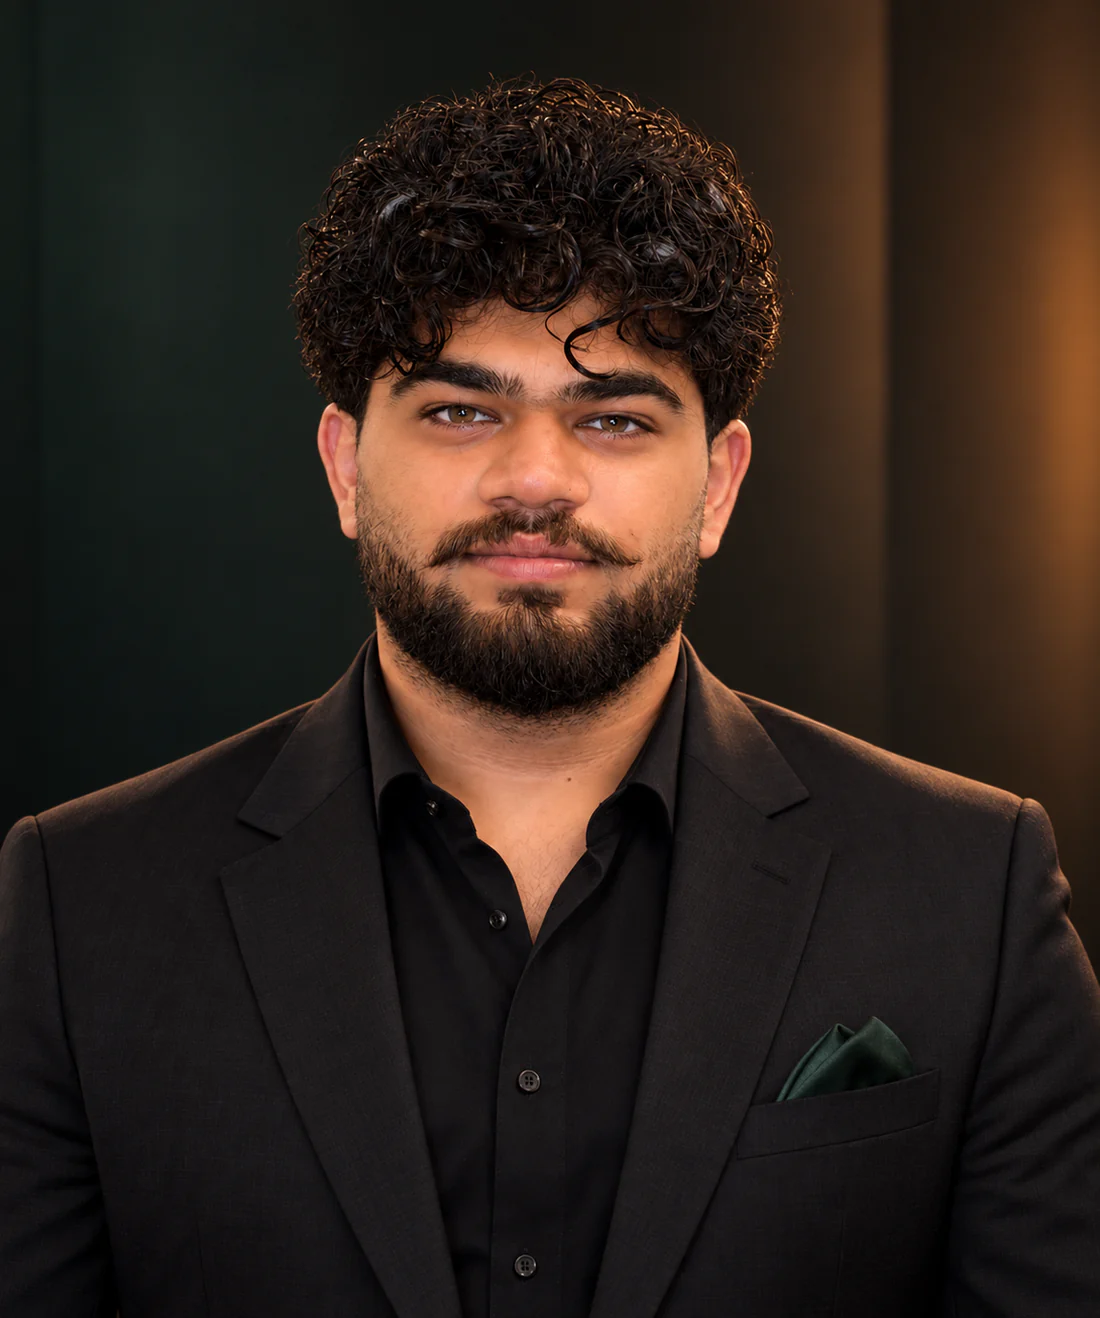
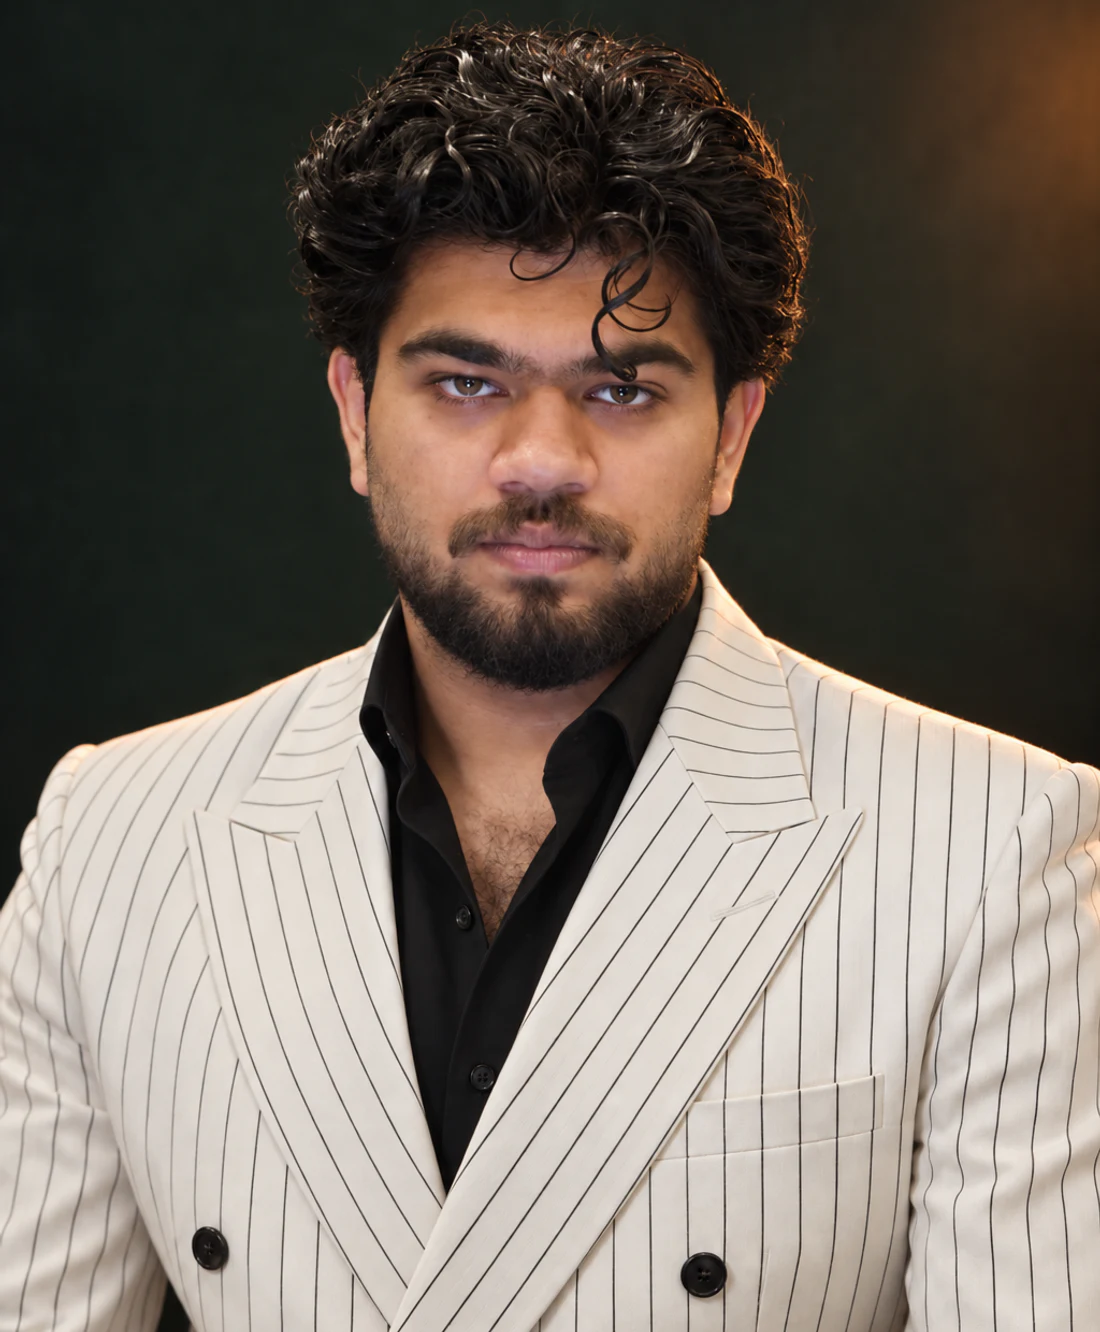
Expand leadership profiles and refine brand assets

diff --git a/src/app/page.tsx b/src/app/page.tsx
@@ -63,16 +63,24 @@ export default function HomePage() {
       <section className="leadership section-pad" id="leadership">
         <div className="shell section-heading light-heading">
           <p className="eyebrow light"><span /> Leadership</p>
-          <h2>Experience meets<br /><em>new momentum.</em></h2>
+          <h2>Stewardship today.<br /><em>Ambition for tomorrow.</em></h2>
         </div>
         <div className="shell leaders-grid">
           <article className="leader-card">
             <div className="leader-image"><Image src="/assets/leadership/sheikh-khalid-islam.webp" alt="Sheikh Khalid Islam" fill sizes="(max-width: 820px) 100vw, 50vw" /></div>
             <div className="leader-body">
-              <span className="leader-index">01 / Chairman</span>
+              <span className="leader-index">01 / Group leadership</span>
               <h3>Sheikh Khalid Islam</h3>
-              <p className="roles">Chairman, RK Group · Chairman, KK Group<br />Vice Chairman, PVMA (2024–2026)</p>
-              <p>Known for strategic vision, operational discipline and principled industry leadership, Sheikh Khalid Islam has guided growth across the edible-oils sector while representing manufacturers in constructive dialogue on food security and industrial policy.</p>
+              <ul className="role-list" aria-label="Leadership roles">
+                <li>Chief Executive Officer, RK Group of Industries</li>
+                <li>Chairman, RK Group</li>
+                <li>Chairman, KK Group</li>
+                <li>Vice Chairman, PVMA (2024-2026)</li>
+              </ul>
+              <div className="leader-profile">
+                <p>Sheikh Khalid Islam brings extensive experience in Pakistan&apos;s edible oil and banaspati ghee industry. He has led strategic growth, operating discipline and business expansion across the Group while keeping quality, resilience and long-term value at the centre of its direction.</p>
+                <p>His industry service includes previous terms as Senior Vice Chairman and Executive Committee Member of the Pakistan Vanaspati Manufacturers Association, along with participation in leadership roles within the Federation of Pakistan Chambers of Commerce and Industry. He has represented manufacturers in dialogue with government and regulatory institutions on food security, taxation, digital invoicing, freight costs and industrial policy.</p>
+              </div>
             </div>
           </article>
           <article className="leader-card">
@@ -80,8 +88,13 @@ export default function HomePage() {
             <div className="leader-body">
               <span className="leader-index">02 / Director</span>
               <h3>Sheikh Saim Khalid</h3>
-              <p className="roles">Director, RK Group · Director, KK Group</p>
-              <p>As a Director of RK Group and KK Group, Sheikh Saim Khalid represents continuity in the family enterprise and its focus on thoughtful modernization across the portfolio.</p>
+              <ul className="role-list" aria-label="Leadership roles">
+                <li>Director, RK Group</li>
+                <li>Director, KK Group</li>
+              </ul>
+              <div className="leader-profile">
+                <p>Sheikh Saim Khalid represents the next generation of the family enterprise. His perspective brings together the Group&apos;s established operating values with a clear focus on thoughtful modernization, stronger brands and disciplined growth across the portfolio.</p>
+              </div>
             </div>
           </article>
         </div>

diff --git a/src/app/globals.css b/src/app/globals.css
@@ -78,13 +78,16 @@ h1,h2,h3 { font-family: "Space Grotesk", Arial, sans-serif; font-weight: 500; le
 .leader-image { position: relative; height: 610px; }
 .leader-image img { object-fit: cover; object-position: center top; transition: transform .7s ease; }
 .leader-card:hover .leader-image img { transform: scale(1.018); }
-.leader-body { min-height: 340px; padding: 38px 42px 44px; border-top: 3px solid var(--orange); }
+.leader-body { min-height: 540px; padding: 38px 42px 44px; border-top: 3px solid var(--orange); }
 .leader-card:nth-child(2) .leader-body { border-color: #286b53; }
 .leader-index { display: block; font-size: 9px; text-transform: uppercase; letter-spacing: .18em; color: var(--orange); margin-bottom: 20px; }
 .leader-card:nth-child(2) .leader-index { color: #66a28a; }
 .leader-body h3 { font-size: clamp(30px,3vw,44px); margin: 0 0 12px; }
-.leader-body .roles { color: white; font-size: 13px; line-height: 1.65; margin-bottom: 23px; }
-.leader-body > p:last-child { color: rgba(255,255,255,.56); font-size: 14px; line-height: 1.75; max-width: 560px; }
+.role-list { display: flex; flex-wrap: wrap; gap: 8px; padding: 0; margin: 0 0 26px; list-style: none; }
+.role-list li { padding: 8px 10px; border: 1px solid rgba(255,255,255,.14); color: rgba(255,255,255,.84); font-size: 10px; line-height: 1.35; letter-spacing: .035em; }
+.leader-profile { max-width: 570px; }
+.leader-profile p { color: rgba(255,255,255,.58); font-size: 14px; line-height: 1.75; margin-bottom: 15px; }
+.leader-profile p:last-child { margin-bottom: 0; }
 
 .brands { background: var(--cream); }
 .brands-heading { display: grid; grid-template-columns: 1fr .55fr; align-items: end; }
@@ -193,7 +196,7 @@ h1,h2,h3 { font-family: "Space Grotesk", Arial, sans-serif; font-weight: 500; le
   .leaders-grid::-webkit-scrollbar { display: none; }
   .leader-card { flex: 0 0 88vw; scroll-snap-align: center; }
   .leader-image { height: 520px; }
-  .leader-body { min-height: 390px; padding: 31px 25px 36px; }
+  .leader-body { min-height: 520px; padding: 31px 25px 36px; }
   .brands-heading, .portfolio-intro { grid-template-columns: 1fr; gap: 28px; }
   .brands-heading > p, .portfolio-intro > p { justify-self: start; }
   .brand-panel, .brand-panel:nth-child(even) { display: flex; flex-direction: column; min-height: auto; }

diff --git a/src/app/layout.tsx b/src/app/layout.tsx
@@ -31,7 +31,6 @@ export const metadata: Metadata = {
   category: "industry",
   robots: { index: true, follow: true, googleBot: { index: true, follow: true, "max-image-preview": "large", "max-snippet": -1, "max-video-preview": -1 } },
   verification: { google: process.env.NEXT_PUBLIC_GOOGLE_SITE_VERIFICATION },
-  icons: { icon: "/assets/rk-group-logo.png", apple: "/assets/rk-group-logo.png" },
 };
 
 export default function RootLayout({ children }: Readonly<{ children: React.ReactNode }>) {
@@ -45,7 +44,7 @@ export default function RootLayout({ children }: Readonly<{ children: React.Reac
     description: "A diversified Pakistani industrial group spanning food, edible oils, energy, chemicals, manufacturing and infrastructure.",
     founder: { "@type": "Person", name: "Sheikh Abdul Majeed" },
     employee: [
-      { "@type": "Person", name: "Sheikh Khalid Islam", jobTitle: "Chairman" },
+      { "@type": "Person", name: "Sheikh Khalid Islam", jobTitle: "Chief Executive Officer and Chairman" },
       { "@type": "Person", name: "Sheikh Saim Khalid", jobTitle: "Director" },
     ],
     brand: ["Kashmir Tea", "Deewan Banaspati", "Islamabad Macaroni", "ACP Banaspati Ghee", "Dilpasand Banaspati"].map(name => ({ "@type": "Brand", name })),

diff --git a/src/app/manifest.ts b/src/app/manifest.ts
@@ -11,6 +11,9 @@ export default function manifest(): MetadataRoute.Manifest {
     display: "standalone",
     background_color: "#faf9f6",
     theme_color: "#0b0c0b",
-    icons: [{ src: "/assets/rk-group-logo.png", sizes: "900x514", type: "image/png" }],
+    icons: [
+      { src: "/favicon-192.png", sizes: "192x192", type: "image/png" },
+      { src: "/favicon-512.png", sizes: "512x512", type: "image/png" },
+    ],
   };
 }
